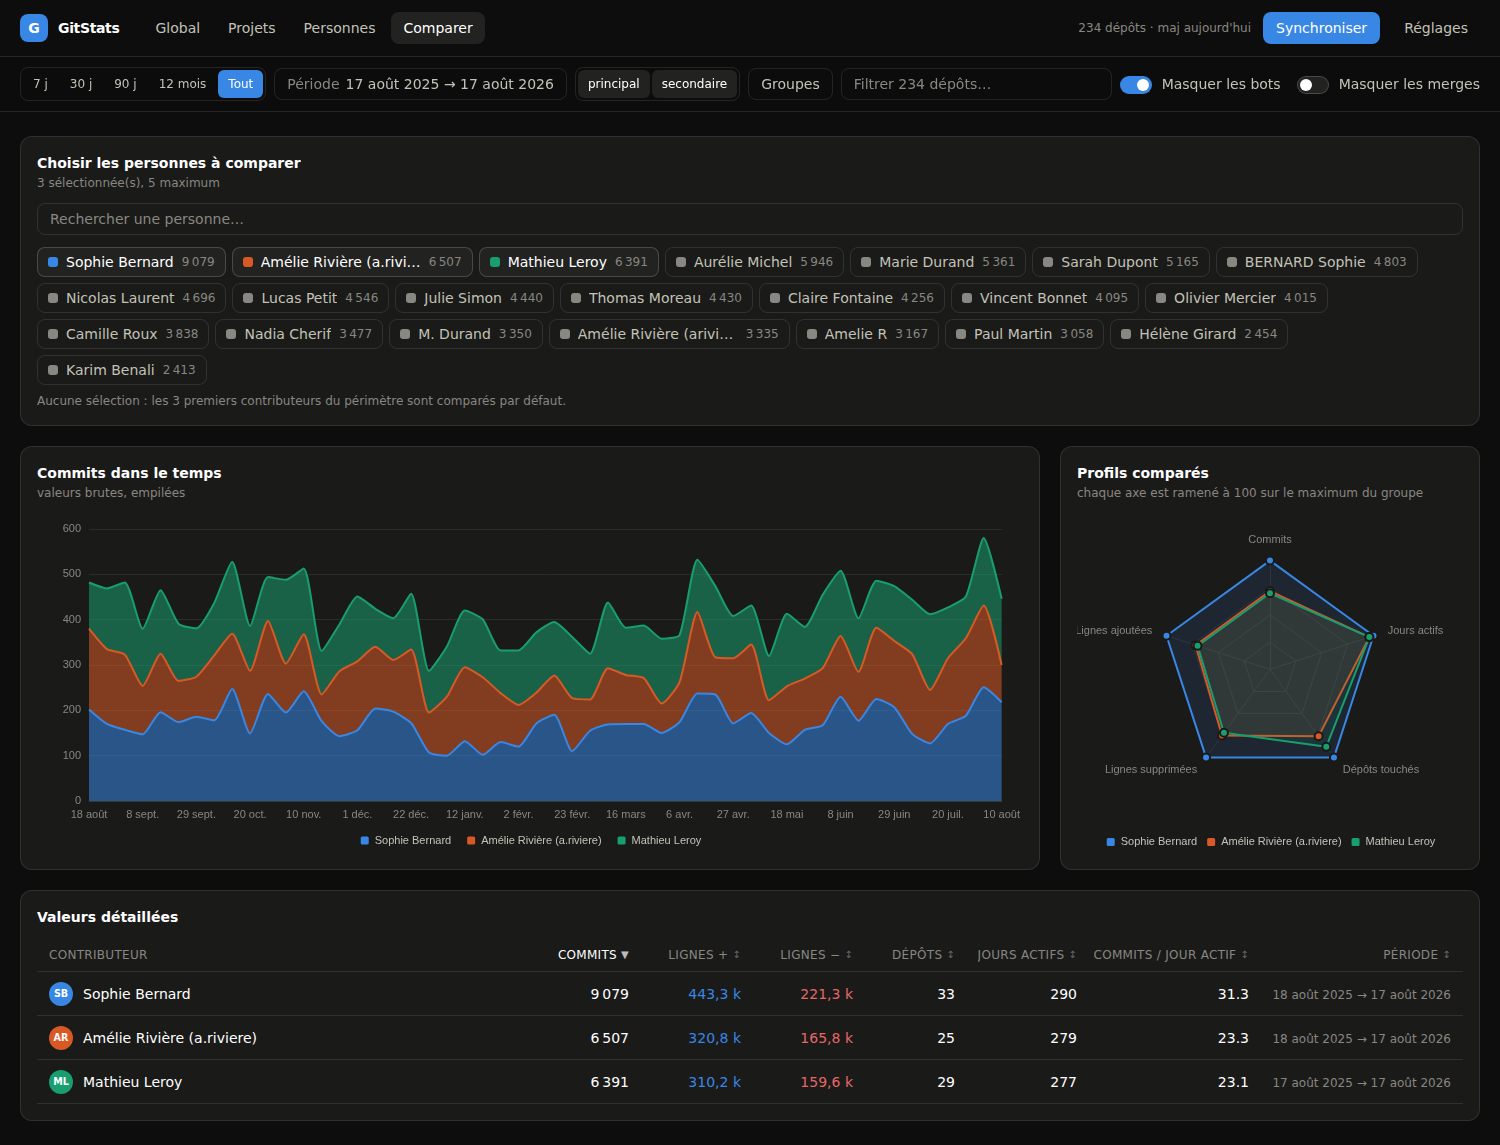
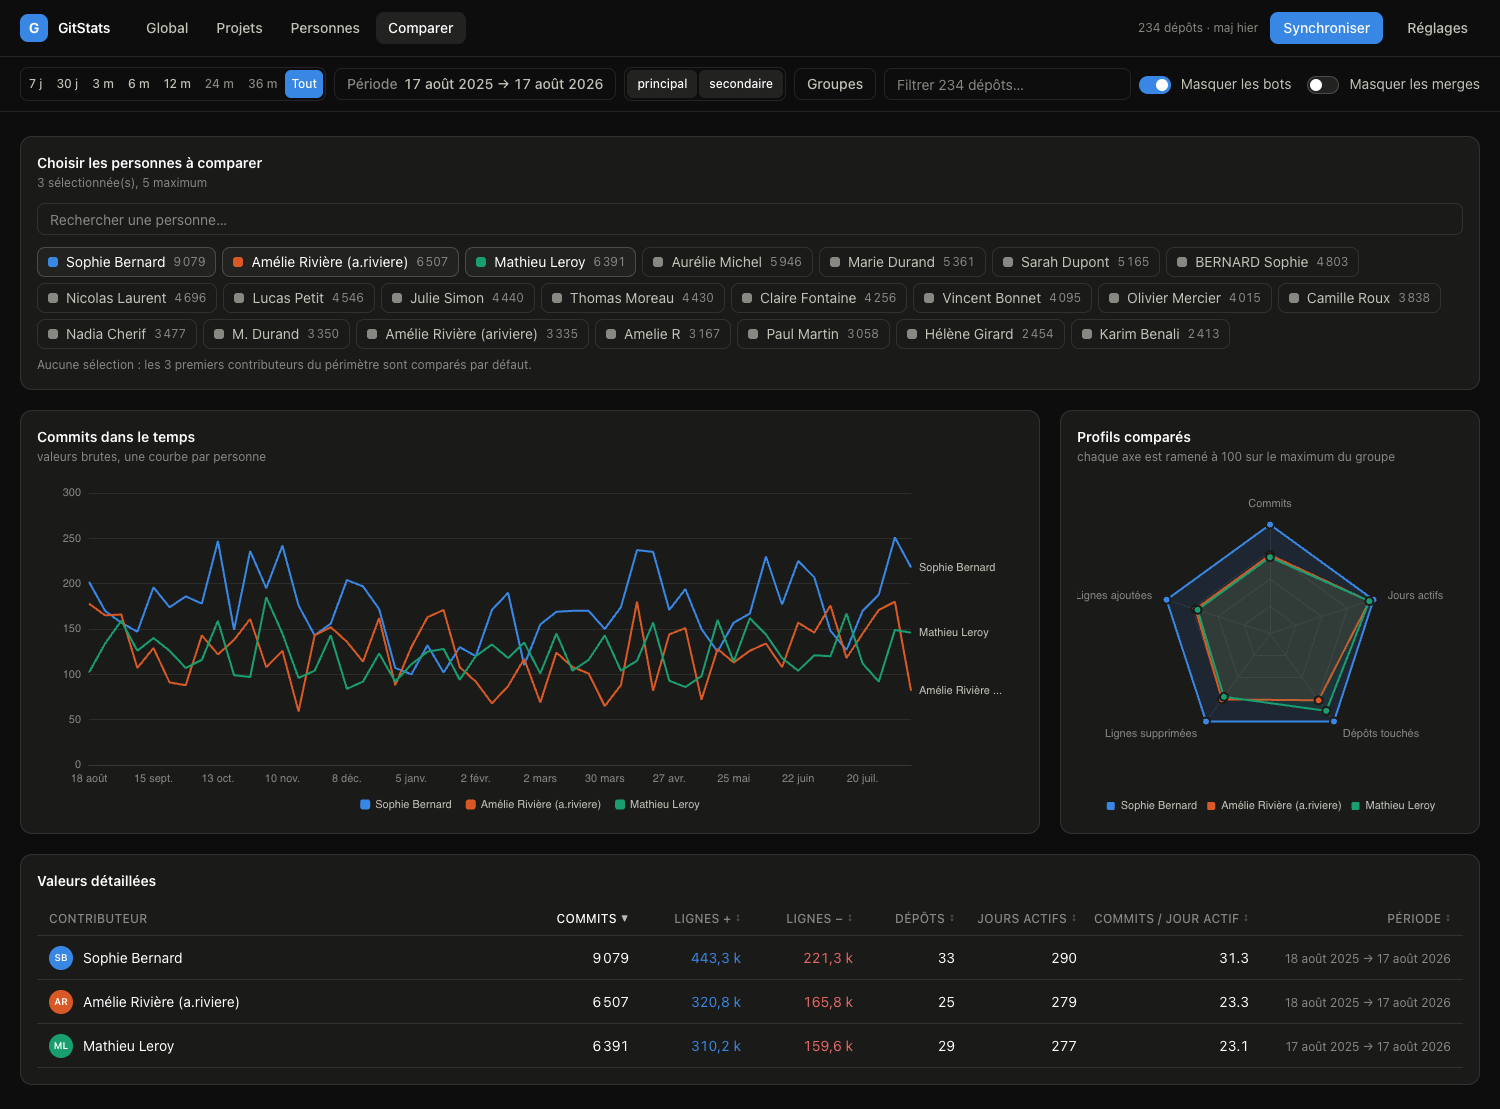
feat(compare): plot one line per person instead of a stacked area

diff --git a/src/components/charts/charts.tsx b/src/components/charts/charts.tsx
@@ -6,6 +6,8 @@
  *  - légende présente dès 2 séries, jamais pour une seule (le titre la nomme) ;
  *  - étiquetage direct sélectif, jamais une valeur sur chaque point ;
  *  - écart de 2 px entre remplissages empilés au lieu d'une bordure ;
+ *  - empilement réservé aux lectures de composition ; comparer des entités
+ *    entre elles demande des courbes partant toutes de zéro ;
  *  - infobulle systématique, et une vue tableau équivalente à côté ;
  *  - couleur attribuée par entité, jamais par rang.
  */
@@ -30,7 +32,15 @@ function formatAxisDate(value: string, granularity: Granularity): string {
   return `${date.getUTCDate()} ${month}`;
 }
 
-/** Aire empilée des commits dans le temps, une série par contributeur nommé. */
+/**
+ * Commits dans le temps, une série par contributeur nommé.
+ *
+ * Deux lectures, choisies par `stacked` :
+ *  - empilé (défaut) : la composition d'un total — « combien de commits ce
+ *    jour-là, et de qui » ;
+ *  - courbes : « qui est plus actif que qui ». Empiler interdit cette lecture,
+ *    la hauteur d'une bande dépendant de celles posées en dessous.
+ */
 export function CommitTimeline({
   days,
   series,
@@ -39,6 +49,7 @@ export function CommitTimeline({
   palette,
   granularity = 'day',
   height = 300,
+  stacked = true,
   stale,
 }: {
   days: string[];
@@ -48,15 +59,21 @@ export function CommitTimeline({
   palette: Palette;
   granularity?: Granularity;
   height?: number;
+  /** `false` : une courbe pleine par entité, toutes partant de zéro. */
+  stacked?: boolean;
   stale?: boolean;
 }) {
   const option = useMemo<EChartsOption>(() => {
-    // L'ordre vient du sélecteur : « Autres » d'abord, donc au bas de la pile.
+    // L'ordre vient du sélecteur : « Autres » d'abord, donc au bas de la pile —
+    // et, sans pile, tracé en premier donc derrière les séries nommées.
     const ordered = series;
+    // Au-delà de 4 courbes, des noms posés au bout se marchent dessus : la
+    // légende redevient seule porteuse de l'identité.
+    const endLabels = !stacked && ordered.length <= 4;
 
     return {
       animation: false,
-      grid: { top: 16, right: 16, bottom: 52, left: 52 },
+      grid: { top: 16, right: endLabels ? 112 : 16, bottom: 52, left: 52 },
       tooltip: {
         trigger: 'axis',
         axisPointer: { type: 'line', lineStyle: { color: palette.axis, width: 1 } },
@@ -102,24 +119,42 @@ export function CommitTimeline({
       series: ordered.map((entry) => ({
         type: 'line' as const,
         name: entry.authorId === OTHER_SERIES_ID ? OTHER_LABEL : nameOf(entry.authorId),
-        stack: 'commits',
-        smooth: 0.2,
+        stack: stacked ? 'commits' : undefined,
+        // Empilé, le lissage est sans risque. Nue, une courbe expose le
+        // dépassement de la spline sous zéro sur des séries en dents de scie :
+        // des commits négatifs à l'écran.
+        smooth: stacked ? 0.2 : false,
         showSymbol: false,
         symbolSize: 8,
         lineStyle: { width: 2 },
-        // Un liseré à la couleur de la surface sépare les aires empilées :
-        // c'est l'écart de 2 px demandé, pas une bordure décorative.
-        areaStyle: { opacity: 0.55 },
+        ...(stacked ? { areaStyle: { opacity: 0.55 } } : {}),
+        ...(endLabels
+          ? {
+              endLabel: {
+                show: true,
+                color: palette.textSecondary,
+                fontSize: 11,
+                width: 92,
+                overflow: 'truncate' as const,
+                formatter: (params: { seriesName?: string }) => params.seriesName ?? '',
+              },
+              // Deux personnes qui finissent au même niveau : on décale plutôt
+              // que superposer deux noms illisibles.
+              labelLayout: { moveOverlap: 'shiftY' as const },
+            }
+          : {}),
         emphasis: { focus: 'series' as const },
         itemStyle: {
           color: entry.authorId === OTHER_SERIES_ID ? palette.other : colors.colorOf(entry.authorId),
-          borderColor: palette.surface,
-          borderWidth: 2,
+          // Un liseré à la couleur de la surface sépare les aires empilées :
+          // c'est l'écart de 2 px demandé, pas une bordure décorative. Sans
+          // pile il ne ferait que cerner les symboles.
+          ...(stacked ? { borderColor: palette.surface, borderWidth: 2 } : {}),
         },
         data: entry.values,
       })),
     };
-  }, [days, series, colors, nameOf, palette, granularity]);
+  }, [days, series, colors, nameOf, palette, granularity, stacked]);
 
   return <EChart option={option} height={height} stale={stale} aria-label="Commits dans le temps par contributeur" />;
 }

diff --git a/src/routes/Compare.tsx b/src/routes/Compare.tsx
@@ -62,8 +62,8 @@ export function Compare() {
 
   /**
    * L'ordre d'affichage suit le classement par commits, jamais l'ordre des
-   * clics : le même groupe de personnes doit donner exactement la même pile,
-   * quel que soit l'ordre dans lequel on les a choisies.
+   * clics : le même groupe de personnes doit donner exactement le même
+   * graphique, quel que soit l'ordre dans lequel on les a choisies.
    */
   const compared = useMemo(
     () => authors.filter((entry) => effective.includes(entry.authorId)),
@@ -261,7 +261,12 @@ export function Compare() {
       ) : (
         <>
           <div className="grid gap-5 lg:grid-cols-[1fr_420px]">
-            <Card title="Commits dans le temps" subtitle="valeurs brutes, empilées">
+            <Card title="Commits dans le temps" subtitle="valeurs brutes, une courbe par personne">
+              {/*
+                Non empilé : c'est tout l'objet de l'onglet. Empilées, deux
+                bandes ne se comparent pas — la hauteur de l'une dépend de
+                celles posées en dessous.
+              */}
               <CommitTimeline
                 days={timeline.days}
                 series={timeline.series}
@@ -270,6 +275,7 @@ export function Compare() {
                 palette={palette}
                 granularity={timeline.granularity}
                 height={340}
+                stacked={false}
               />
             </Card>
 

diff --git a/CLAUDE.md b/CLAUDE.md
@@ -124,6 +124,10 @@ Contraintes déjà appliquées, à ne pas casser :
   classement *non filtré* : changer la plage de dates ne doit repeindre personne.
 - Au-delà de 8 séries → « Autres », jamais une 9ᵉ teinte générée. La série
   « Autres » est renvoyée **en tête** pour se placer au bas de la pile.
+- L'empilement est réservé aux lectures de **composition** (Global, Projets,
+  Personnes). Comparer trace des **courbes non empilées** (`stacked={false}`) :
+  empilées, deux bandes ne se comparent pas, la hauteur de l'une dépendant de
+  celles posées en dessous.
 - Un seul axe des ordonnées. Jamais de double échelle.
 - Agrégation temporelle automatique (`pickGranularity`) au-delà de 92 jours, et
   les seaux de bord partiels sont **rognés pour l'affichage uniquement** — les

diff --git a/README.md b/README.md
@@ -104,7 +104,7 @@ La fiche individuelle ajoute la répartition par dépôt et le rythme de travail
 
 ### Comparer
 
-De 2 à 5 personnes côte à côte : séries temporelles empilées, profil radar
+De 2 à 5 personnes côte à côte : une courbe de commits par personne, profil radar
 normalisé sur le maximum du groupe, et le tableau des valeurs brutes en dessous —
 parce qu'un radar sert à voir une forme, pas à lire un chiffre.
 
